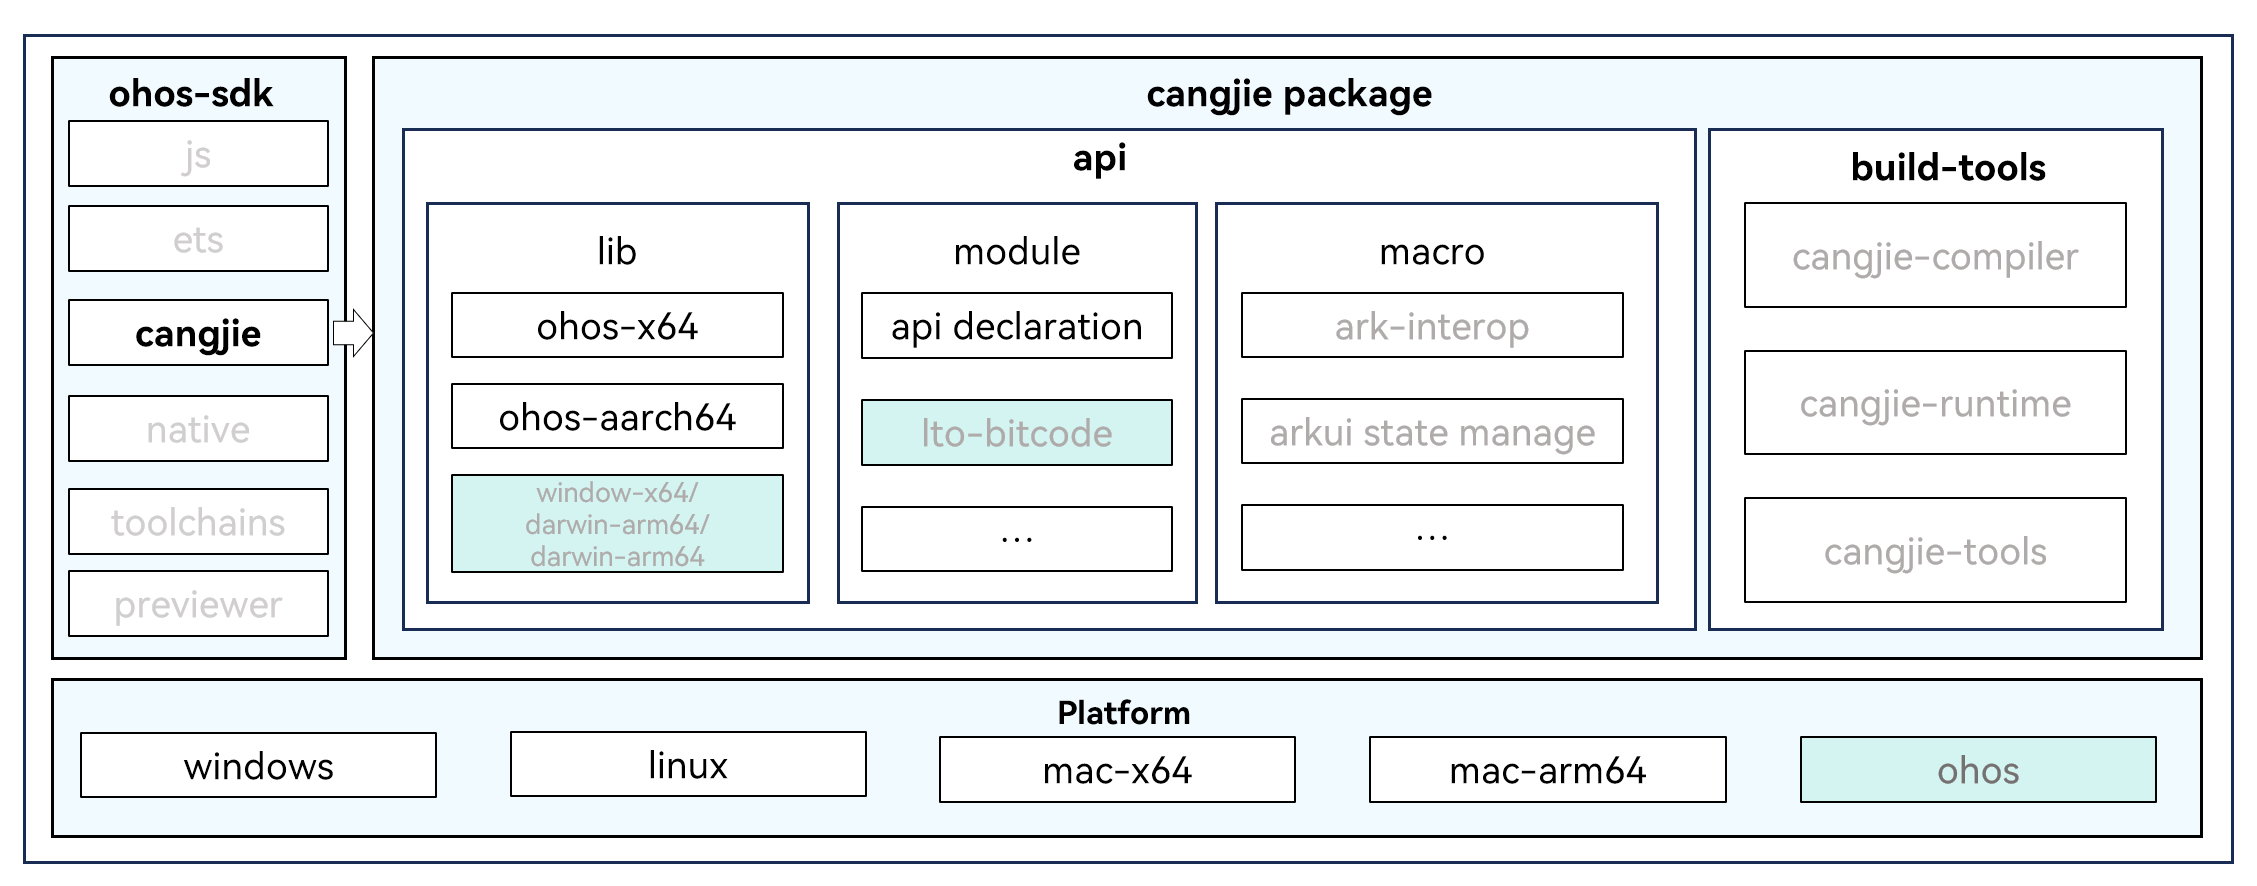
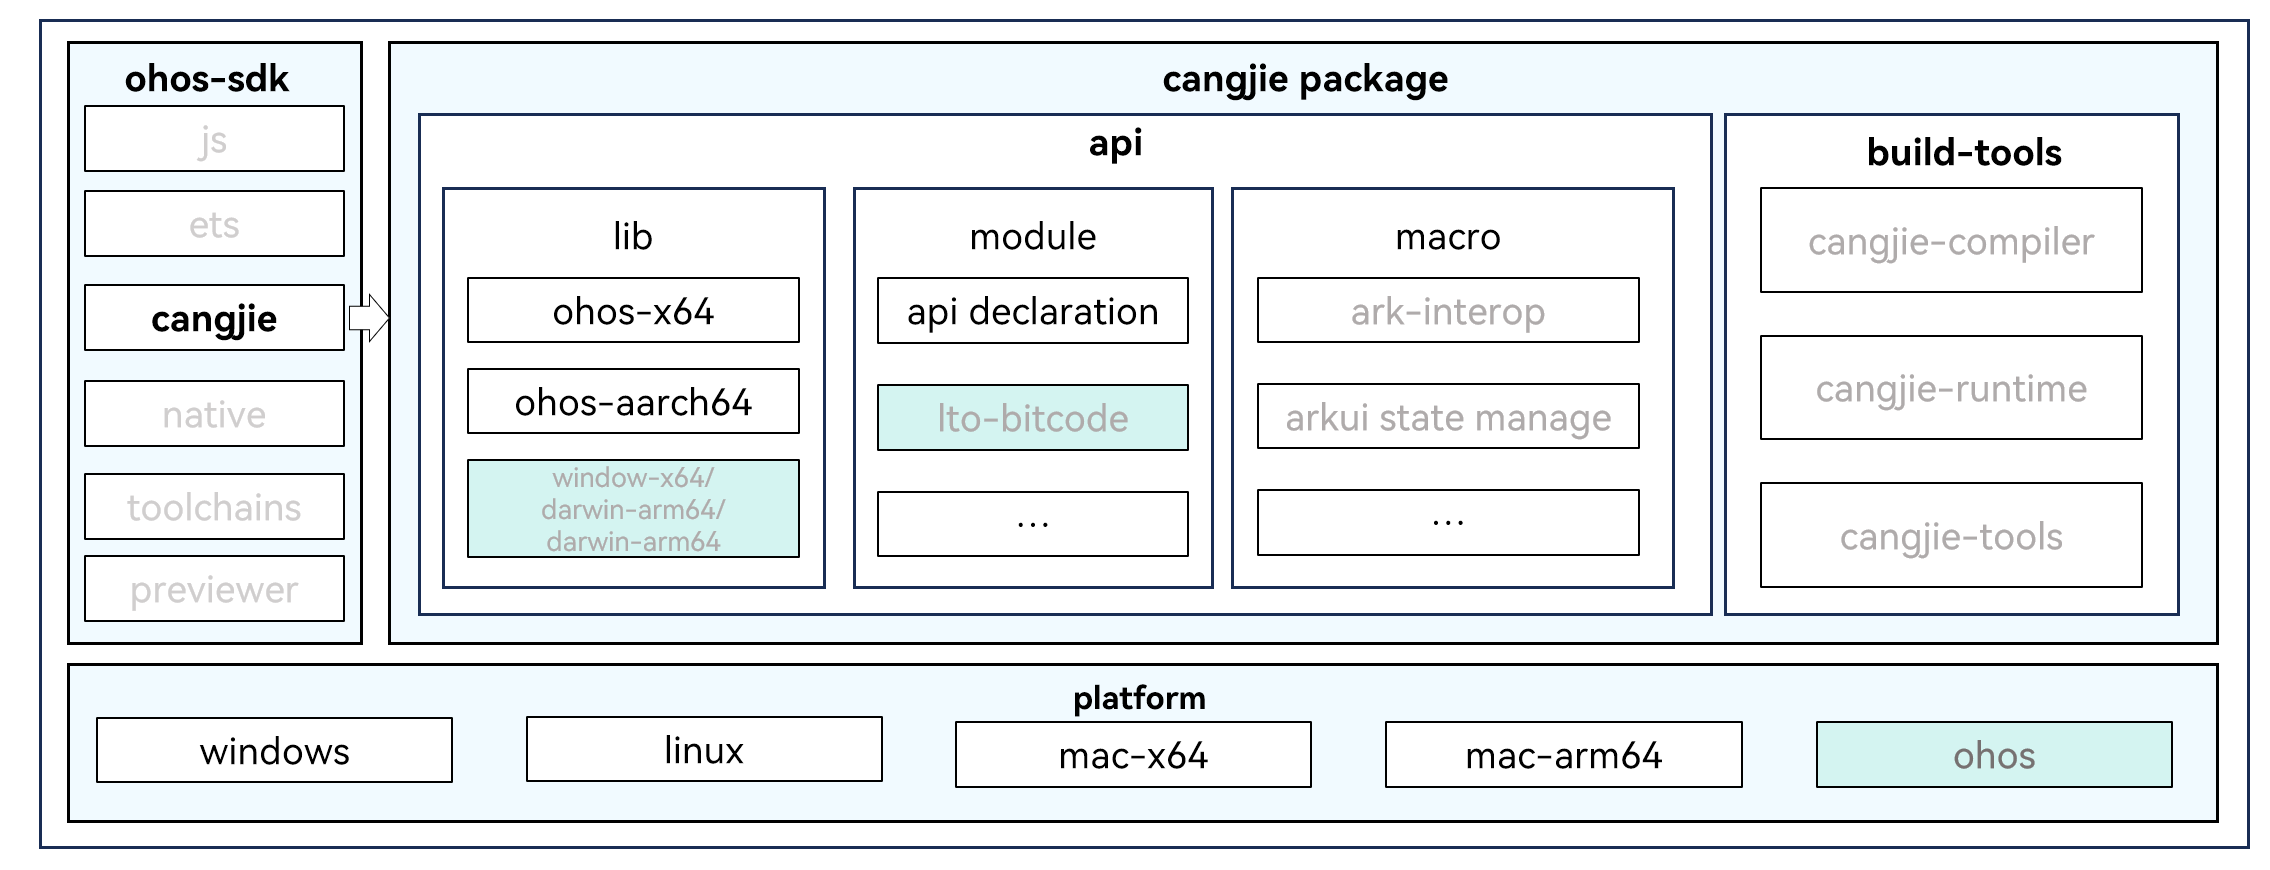
update readme

diff --git a/README.md b/README.md
@@ -14,11 +14,16 @@ Currently, the Cangjie API only supports standard devices.
 
 As shown in the architecture:
 
-- API Declaration: Cangjie API declaration files, mainly including ohos and Cangjie standard libraries.
-- Kit Declaration: Unified external declaration files of Cangjie kits.
+- API Declaration: Cangjie API declaration files, mainly including ohos modules and Cangjie standard library related API declaration files.
+- Kit Declaration: Unified external declaration files of Cangjie kit modules.
 - build-tools: SDK building tools, such as tools for generating cjo, mock API library, etc.
   - cjo generation tool: Serialize xxx.cjo.json files into cjo files
   - mock API library tool: Build API mock dynamic libraries
+
+Dependencies introduction in the architecture diagram:
+
+- cangjie_ark_interop: The macro package in Cangjie SDK depends on the Cangjie-ArkTS interoperability interface for building interoperability macros
+- arkui_cangjie_wrapper: The macro package in Cangjie SDK depends on the ArkUI development framework Cangjie interface for building state management macros
 
 Code directory structure:
 ```bash
@@ -44,15 +49,15 @@ interface/sdk_cangjie
 ![](figures/interface_sdk_cangjie_delivery_view.png)
 
 As shown in the figure:
- - Platform: Cangjie SDK currently supports windows/linux/mac-x64/mac-arm64 (ohos is not supported yet)
+ - platform: Cangjie SDK currently supports windows/linux/mac-x64/mac-arm64 (ohos is not supported yet)
  - api lib package currently only supports ohos-related cross-compilation packages, previewer cross-compilation packages are not supported yet
    - ohos-aarch64: Cross-compilation for ohos applications
    - ohos-x86_64: Cross-compilation for ohos simulator applications
    - previewer cross-compilation package (not supported yet)
  - api module package stores header files and lto bitcode files (following subsequent lto planning)
  - api macro package mainly stores Cangjie macro libraries
-   - ark-interop: Cangjie interoperability related macro interfaces of the cangjie_ark_interop component
-   - arkui state manager: Cangjie state management related macro interfaces of the arkui_cangjie_wrapper component
+   - ark-interop: Cangjie interoperability related macro library of the cangjie_ark_interop component
+   - arkui state manager: Cangjie state management related macro library of the arkui_cangjie_wrapper component
  - build-tools: Mainly stores Cangjie build toolchain, including Cangjie compiler, standard library, runtime library, third-party libraries, tools, etc.
 
 Cangjie SDK package directory structure:
@@ -99,6 +104,10 @@ cangjie
 Developers are welcome to contribute code, documentation, etc. For specific contribution processes and methods, please refer to [Code Contribution](https://gitcode.com/openharmony/docs/blob/master/en/contribute/code-contribution.md).
 
 ## Related Repositories
+
+[arkcompiler_cangjie_ark_interop](https://gitcode.com/openharmony-sig/arkcompiler_cangjie_ark_interop/)
+
+[arkui_arkui_cangjie_wrapper](https://gitcode.com/openharmony-sig/arkui_arkui_cangjie_wrapper/)
 
 [interface_sdk_c](https://gitcode.com/openharmony/interface_sdk_c/)
 

diff --git a/README_zh.md b/README_zh.md
@@ -14,11 +14,16 @@
 
 如架构图所示：
 
-- API声明：仓颉API声明文件，主要是ohos和仓颉标准库。
-- Kit声明：仓颉kit对外统一声明文件。
+- API声明：仓颉API声明文件，主要是ohos模块和仓颉标准库相关API声明文件。
+- Kit声明：仓颉kit模块对外统一声明文件。
 - build-tools：SDK构建工具，比如生成cjo工具，mock API库工具等
   - cjo 生成工具：把xxx.cjo.json文件序列化成cjo文件
   - mock API库工具：构建API mock 动态库
+
+架构图中依赖部件引入说明：
+
+- cangjie_ark_interop: 仓颉SDK中 marco包依赖仓颉-ArkTS互操作接口仓构建互操作宏
+- arkui_cangjie_wrapper: 仓颉SDK中 macro包依赖ArkUI开发框架仓颉接口仓构建状态管理宏
 
 代码目录结构：
 ```bash
@@ -44,15 +49,15 @@ interface/sdk_cangjie
 ![](figures/interface_sdk_cangjie_delivery_view.png)
 
 如图所示：
- - Platform: 仓颉sdk目前支持windows/linux/mac-x64/mac-arm64(暂不支持ohos)
+ - platform: 仓颉sdk目前支持windows/linux/mac-x64/mac-arm64(暂不支持ohos)
  - api lib包中 目前仅支持ohos 相关的交叉构建包，暂不支持previewer交叉构建包
    - ohos-aarch64: 交叉构建ohos应用
    - ohos-x86_64: 交叉构建ohos模拟器应用
    - previewer交叉构建包（暂不支持）
  - api moudle包存放头文件以及lto的bitcode文件(随后续lto规划)
  - api macro包主要存放仓颉宏相关库
-   - ark-interop: cangjie_ark_interop部件的仓颉互操作相关宏接口
-   - arkui state manager: arkui_cangjie_wrapper部件的仓颉状态管理相关宏接口
+   - ark-interop: cangjie_ark_interop部件的仓颉互操作相关宏库
+   - arkui state manager: arkui_cangjie_wrapper部件的仓颉状态管理相关宏库
  - build-tools：主要存放仓颉构建工具链，包括仓颉编译器、标准库、运行时库、三方库、工具等。
 
 仓颉SDK包目录结构：
@@ -99,6 +104,10 @@ cangjie
 欢迎广大开发者代码，文档等，具体的贡献流程和方式请参见[参与贡献](https://gitcode.com/openharmony/docs/blob/master/zh-cn/contribute/%E5%8F%82%E4%B8%8E%E8%B4%A1%E7%8C%AE.md)。
 
 ## 相关仓
+
+[arkcompiler_cangjie_ark_interop](https://gitcode.com/openharmony-sig/arkcompiler_cangjie_ark_interop/)
+
+[arkui_arkui_cangjie_wrapper](https://gitcode.com/openharmony-sig/arkui_arkui_cangjie_wrapper/)
 
 [interface_sdk_c](https://gitcode.com/openharmony/interface_sdk_c/)
 
